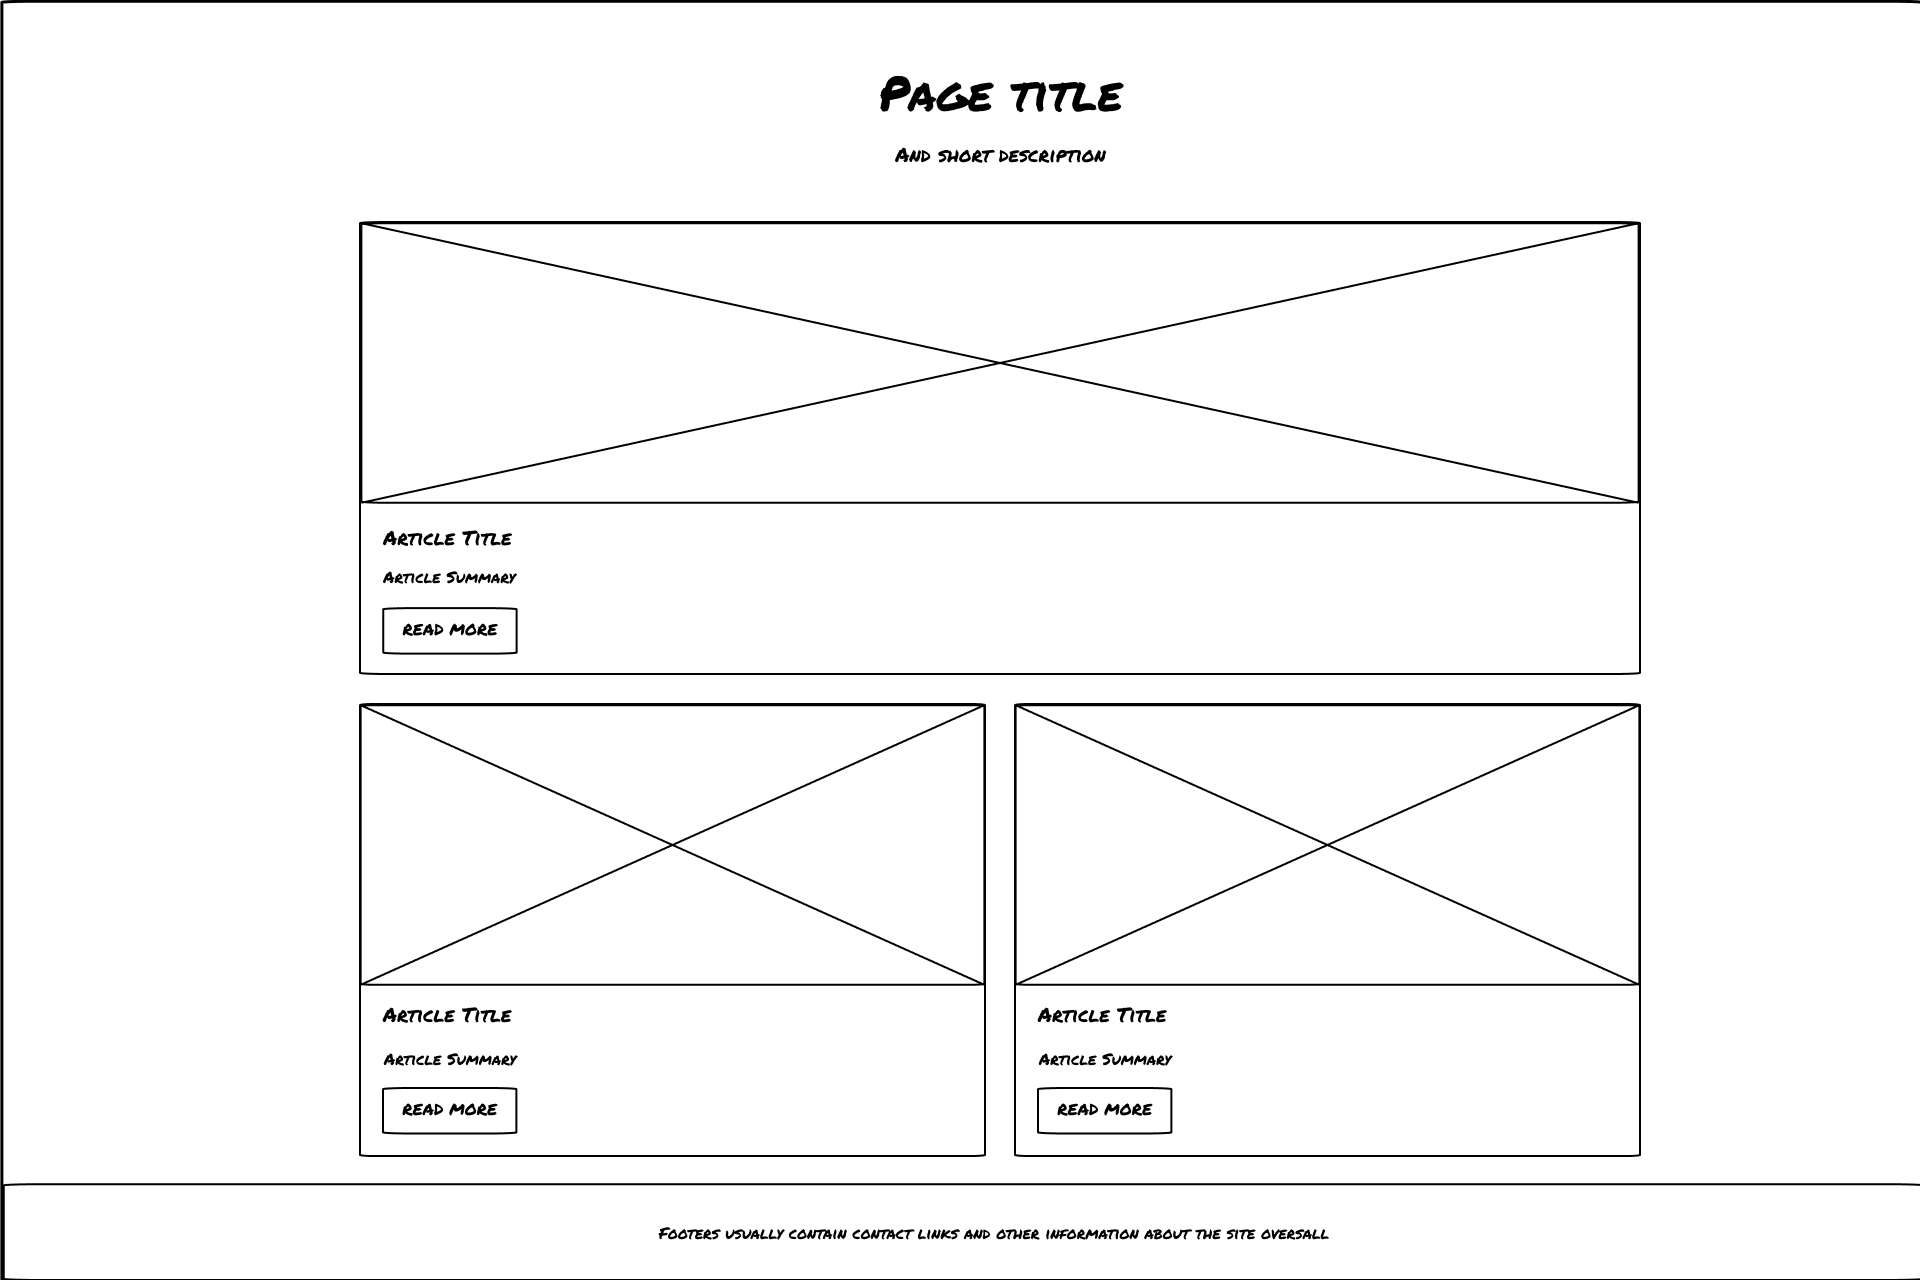
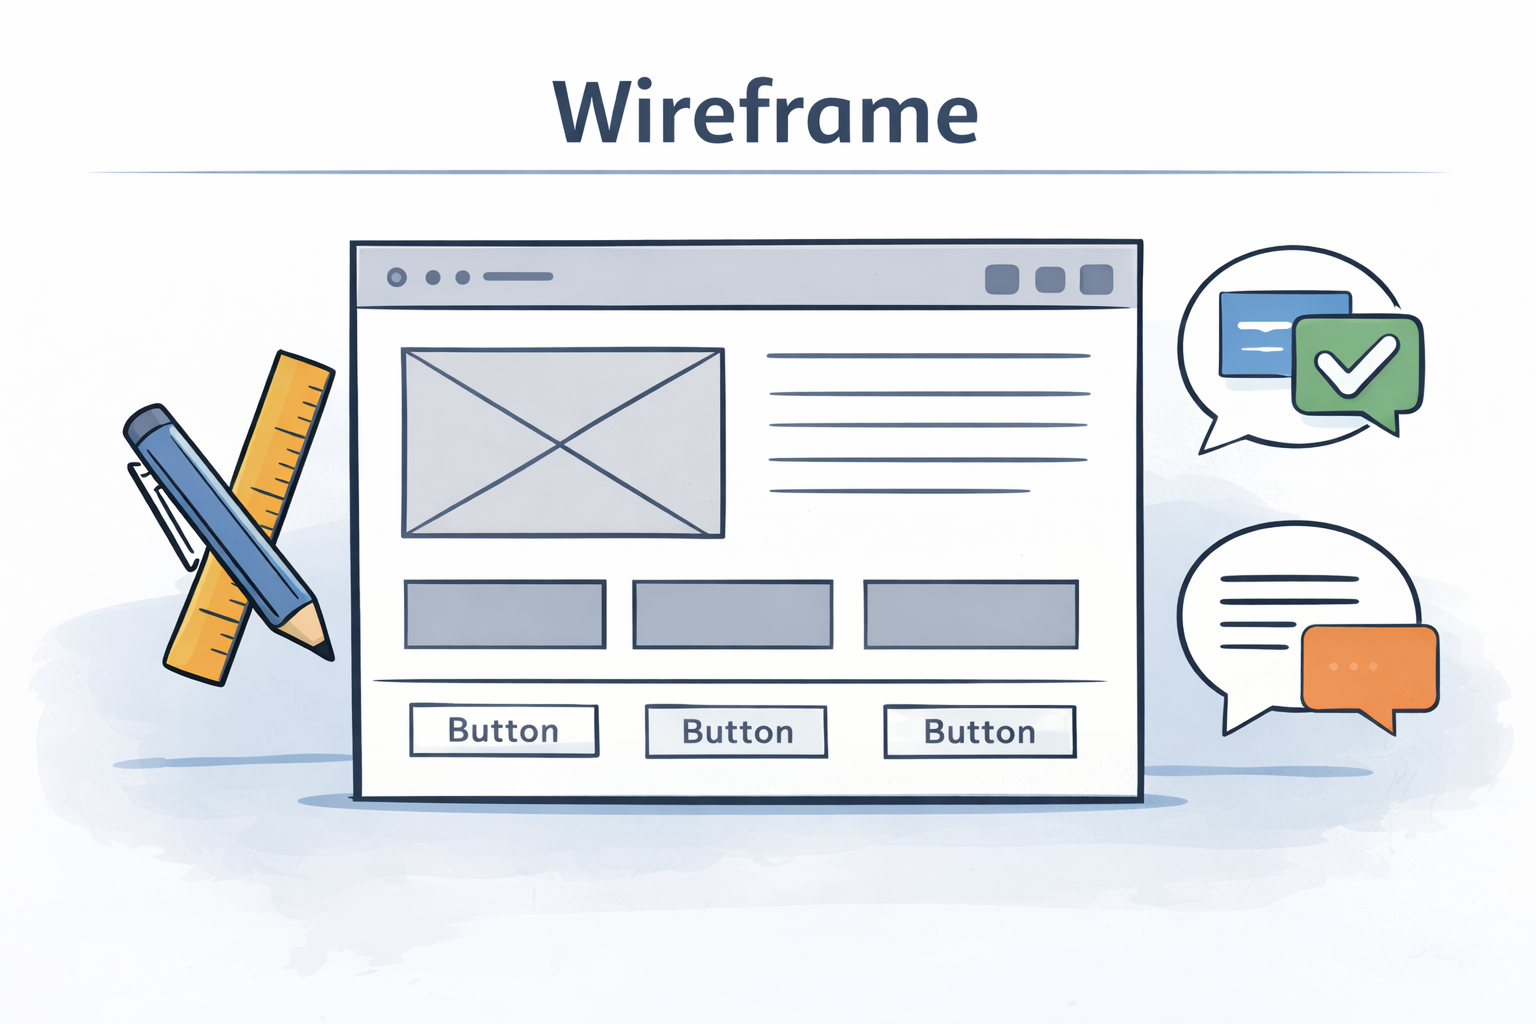
Added images

diff --git a/Wireframe/index.html b/Wireframe/index.html
@@ -16,7 +16,7 @@
     <main>
       <main>
       <article class="acticle-top">
-        <img src="placeholder.svg" alt="" />
+        <img src="readme.png" alt="" />
         <h2>What Is the Purpose of a README File?</h2>
         <p>
           <section>
@@ -41,7 +41,7 @@ A well-written README helps users quickly understand the project without needing
 <main>
 
       <article>
-        <img src="placeholder.svg" alt="" />
+        <img src="wireframe.png" alt="" />
         <h2>What Is the Purpose of a Wireframe?</h2>
         <p>
           <section>
@@ -65,7 +65,7 @@ Wireframes act as a guide for designers, developers, and stakeholders, ensuring 
     </main>
        <main>
 <article>
-        <img src="placeholder.svg" alt="" />
+        <img src="gitbranches.jpg" alt="" />
         <h2>What Is a Branch in Git?</h2>
         <p>
           <section>
@@ -89,7 +89,7 @@ A well-written README helps users quickly understand the project without needing
     </main>
     <footer>
       <p>
-        This is the default, provided code and no changes have been made yet.
+        This specific page is craeted by Ihor Taradaiko.
       </p>
     </footer>
   </body>
